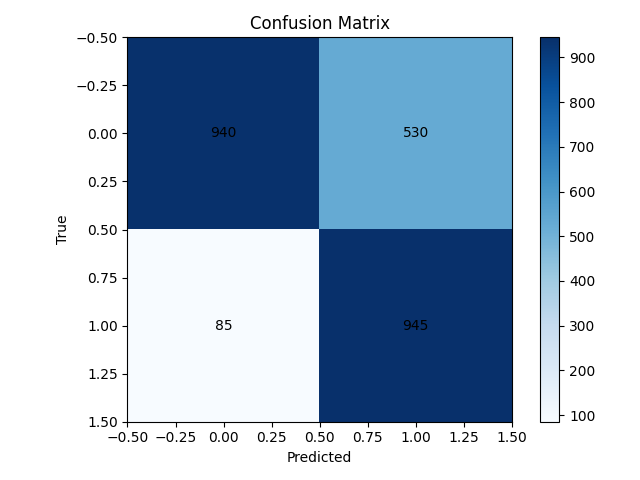
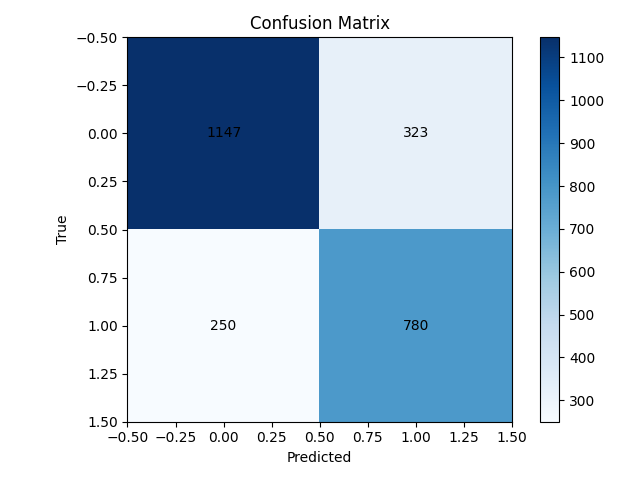
threshhold update

diff --git a/model_training/train_model.py b/model_training/train_model.py
@@ -218,7 +218,7 @@ def main():
     # ---------------------------------------------------
     # Evaluation on test set with threshold-based prediction
     # ---------------------------------------------------
-    decision_threshold = 0.7  # adjust between 0.5 and 0.9 to tune aggressiveness
+    decision_threshold = 0.55  # adjust between 0.4 and 0.6 to tune aggressiveness
 
     if hasattr(clf, "predict_proba"):
         y_proba = clf.predict_proba(X_test)[:, 1]

diff --git a/ids_core/apis.py b/ids_core/apis.py
@@ -4,7 +4,7 @@ from typing import Dict, Any
 
 logger = logging.getLogger(__name__)
 
-# Optional: IPinfo token for higher rate limits / more fields
+# IPinfo token for higher rate limits / more fields
 IPINFO_TOKEN = os.getenv("IPINFO_TOKEN")
 
 try:
